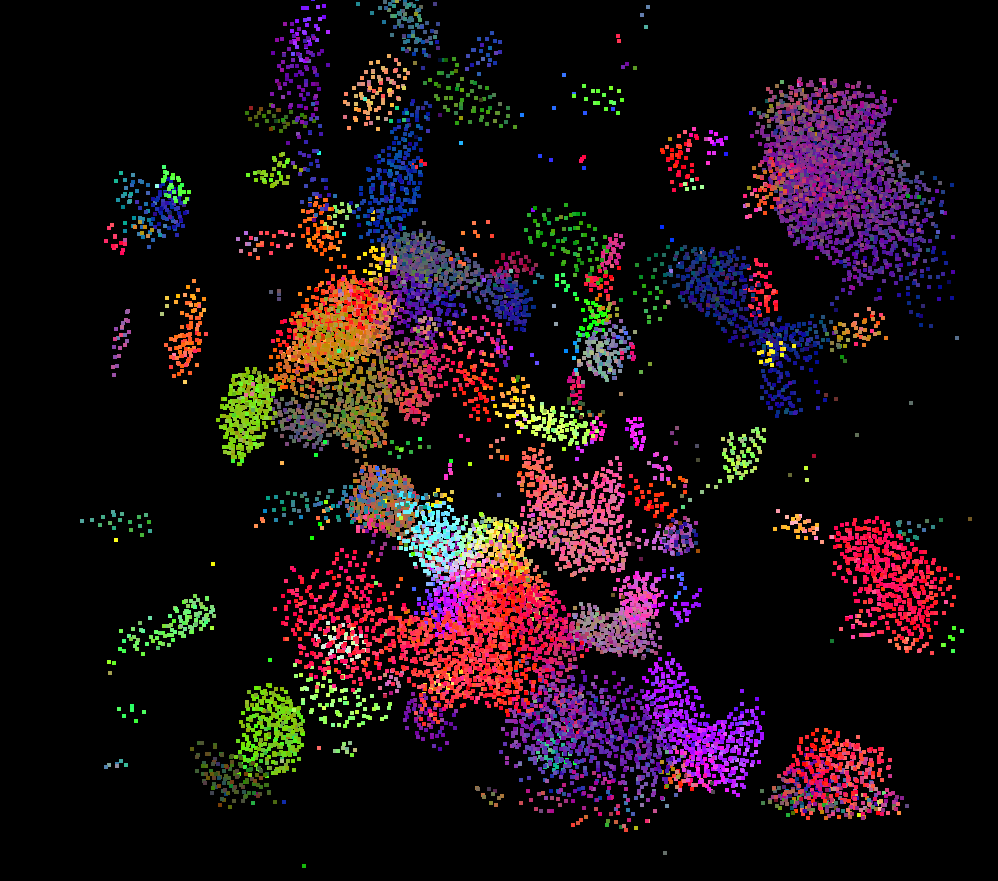
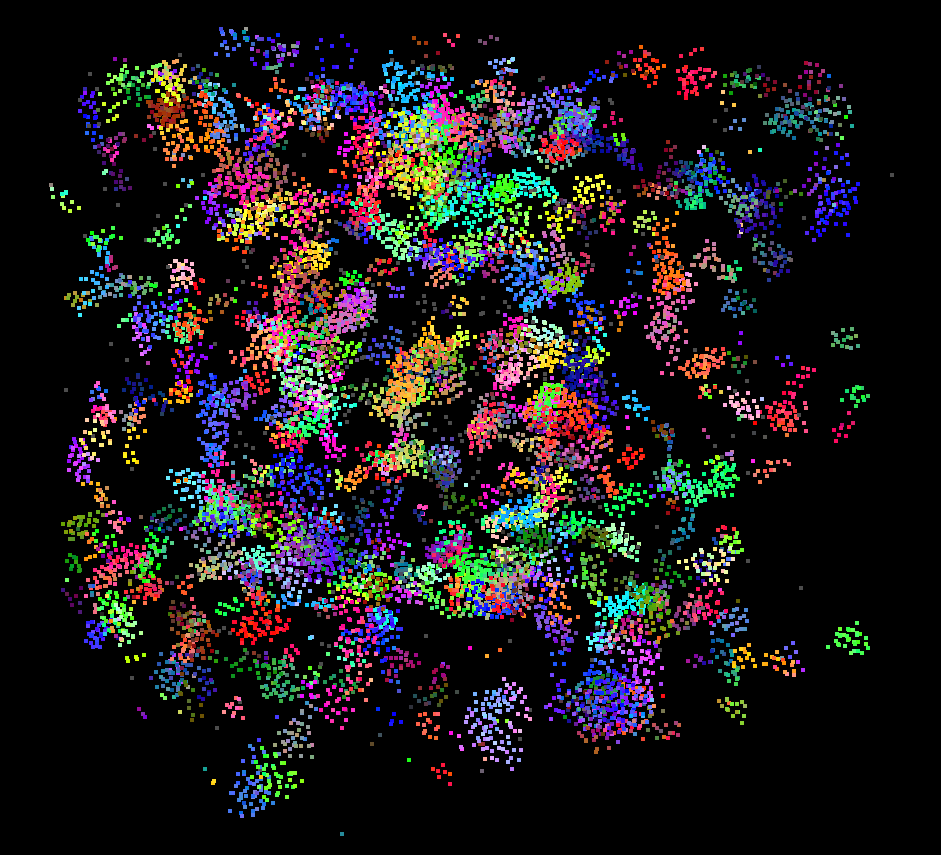
* Fixed a bug in the flocking algorithm * Changed flocking screenshot & gif

diff --git a/src/main.cpp b/src/main.cpp
@@ -12,13 +12,13 @@
 // Configuration
 // ================
 
-// LOOK-2.1 LOOK-2.3 - toggles for UNIFORM_GRID and COHERENT_GRID
+// Toggles for UNIFORM_GRID and COHERENT_GRID
 #define VISUALIZE 1
-#define UNIFORM_GRID 1
-#define COHERENT_GRID 1
+#define UNIFORM_GRID 0
+#define COHERENT_GRID 0
 
 // Change this to adjust particle count in the simulation
-const int N_FOR_VIS = 5000;
+const int N_FOR_VIS = 15000;
 const float DT = 0.2f;
 
 /**
